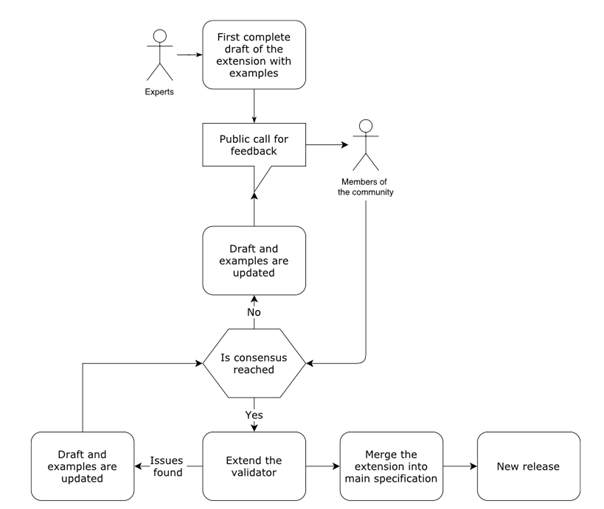
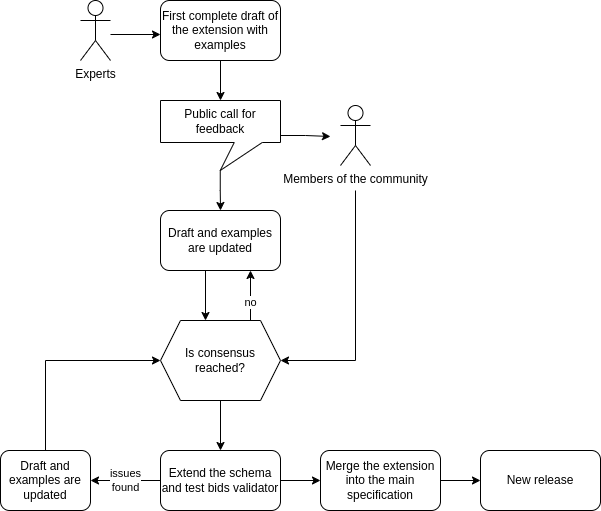
updated workflow image, start warning about validator work deprecation

Changed region(s): [[0.0, 0.0, 1.0, 1.0], [0.2696, 0.6483, 0.2995, 0.6778]]

diff --git a/docs/submission.md b/docs/submission.md
@@ -15,7 +15,7 @@ This process assumes the BEP is ready to be opened as a pull
 
 1. Extension proposal
 2. Extension of the
-   [`bids-validator`](https://github.com/bids-standard/bids-validator) to support
+   [`bids-schema`](https://github.com/bids-standard/bids-specification/tree/master/src/schema) to support
    the BEP
 3. Examples (to test the validator is working properly) added to
    [`bids-examples`](https://github.com/bids-standard/bids-examples)
@@ -54,8 +54,11 @@ The BEP lead(s) will work with the BIDS maintainers to coordinate the community
   review period. The community review period is scheduled _after_ the pull request
   has been opened.
 
-## Submitting the validator extension
+## Submitting the validator extension (deprecation warning)
 
+0. Determine if this is necessary as approved and merged changes to
+   to the [schema](https://github.com/bids-standard/bids-specification/tree/master/src/schema)
+   will cancel the need to complete the following steps.
 1. Create a new branch off of the `bids-validator` repository
 2. Name the branch following the BEP tag convention: `bep###` (e.g. `bep003`)
 3. Label your pull requests with your BEP tag. This will clearly differentiate
